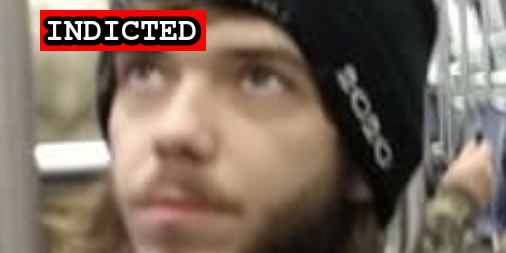
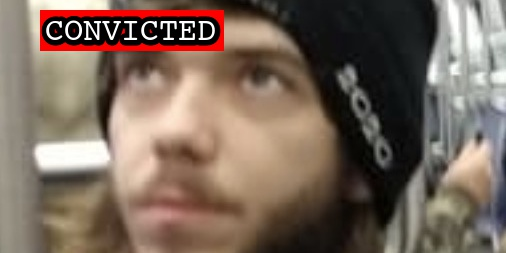
Latest import

Changed region(s): [[0.0593, 0.0277, 0.4447, 0.2213]]

diff --git a/docs/_suspects/charles-smith.md b/docs/_suspects/charles-smith.md
@@ -4,15 +4,17 @@ lastName: Smith
 hashtag: CharlesSmith
 aka:
 residence: Pennsylvania
-status: Charged
+status: Convicted
 date: 2021-09-08
 charged: 2021-09-08
 indicted:
-convicted:
+convicted: 2022-06-23
+acquitted:
 sentenced:
 dismissed:
 deceased:
-plea_hearing:
+plea_hearing: 2022-06-23
+trial_date:
 sentencing:
 age: 25
 occupation:
@@ -25,7 +27,7 @@ courtroom:
 courthouse:
 raid:
 perpwalk:
-quote: 'We stormed the gates of the Capitol.'
+quote: "We stormed the gates of the Capitol."
 title: Charles Smith charged on September 8, 2021
 description: Click for latest case details. Suspects innocent until proven guilty.
 author: seditiontrack
@@ -34,7 +36,18 @@ published: true
 caseNumber: 1:21-cr-567
 videos:
 charges:
+  - code: 18 USC § 1512(k)
+    title: Conspiracy to Obstruct an Official Proceeding
+    url: https://www.law.cornell.edu/uscode/text/18/1512
+    felony: true
+  - code: 18 USC § 111(a)(1), 2
+    title: Assaulting, resisting, or impeding certain officers or employees (Aiding and Abetting)
+    url: https://www.law.cornell.edu/uscode/text/18/111
+    felony: true
 sentence:
 ---
+
 - [News Report](https://www.mcall.com/news/pennsylvania/mc-nws-pa-men-charged-capitol-attack-20210914-mpvo6vsozfb3zjlyochwtgndye-story.html)
 - [Indictment](https://www.justice.gov/usao-dc/case-multi-defendant/file/1432686/download)
+- [Plea Agreement](https://www.justice.gov/usao-dc/case-multi-defendant/file/1514731/download)
+- [Statement of Offense](https://www.justice.gov/usao-dc/case-multi-defendant/file/1514736/download)

diff --git a/docs/_suspects/jeremy-grace.md b/docs/_suspects/jeremy-grace.md
@@ -16,9 +16,9 @@ deceased:
 plea_hearing: 2022-04-08
 trial_date:
 sentencing:
-age:
-occupation:
-affiliations:
+age: 38
+occupation: Electrician, Former US Navy
+affiliations: Proud Boys
 jurisdiction: Federal
 image: /images/preview/jeremy-grace.jpg
 suspect: jeremy-grace.jpg
@@ -36,14 +36,16 @@ published: true
 caseNumber: 1:21-cr-492
 videos:
 charges:
-- code: 18 USC § 1752(a)(1)
-  title: Entering a restricted building or grounds
-  url: https://www.law.cornell.edu/uscode/text/18/1752
-  felony: false
+  - code: 18 USC § 1752(a)(1)
+    title: Entering a restricted building or grounds
+    url: https://www.law.cornell.edu/uscode/text/18/1752
+    felony: false
 sentence:
 ---
+
 - [News Report](https://www.oregonlive.com/crime/2021/05/battle-ground-man-caught-on-video-with-dad-repeating-our-house-while-inside-us-capitol-during-jan-6-incursion-feds-say.html)
 - [Statement of Facts](https://www.justice.gov/usao-dc/case-multi-defendant/file/1398131/download)
 - [Information](https://www.justice.gov/usao-dc/case-multi-defendant/file/1422216/download)
 - [Plea Agreement](https://www.justice.gov/usao-dc/case-multi-defendant/file/1493166/download)
 - [Statement of Offense](https://www.justice.gov/usao-dc/case-multi-defendant/file/1493171/download)
+- [Sentencing Memo](https://www.documentcloud.org/documents/22066581-220623-usg-jeremy-grace-sentencing-memo)

diff --git a/docs/_suspects/hatchet-speed.md b/docs/_suspects/hatchet-speed.md
@@ -17,8 +17,8 @@ plea_hearing:
 trial_date:
 sentencing:
 age:
-occupation:
-affiliations:
+occupation: US Navy (Reserves)
+affiliations: Proud Boys
 jurisdiction: Federal
 image: /images/preview/hatchet-speed.jpg
 suspect: hatchet-speed.jpg
@@ -38,6 +38,7 @@ videos:
 charges:
 sentence:
 ---
+
 - [News Report]()
 - [Complaint](https://www.justice.gov/usao-dc/case-multi-defendant/file/1514546/download)
 - [Statement of Facts](https://www.justice.gov/usao-dc/case-multi-defendant/file/1514551/download)
